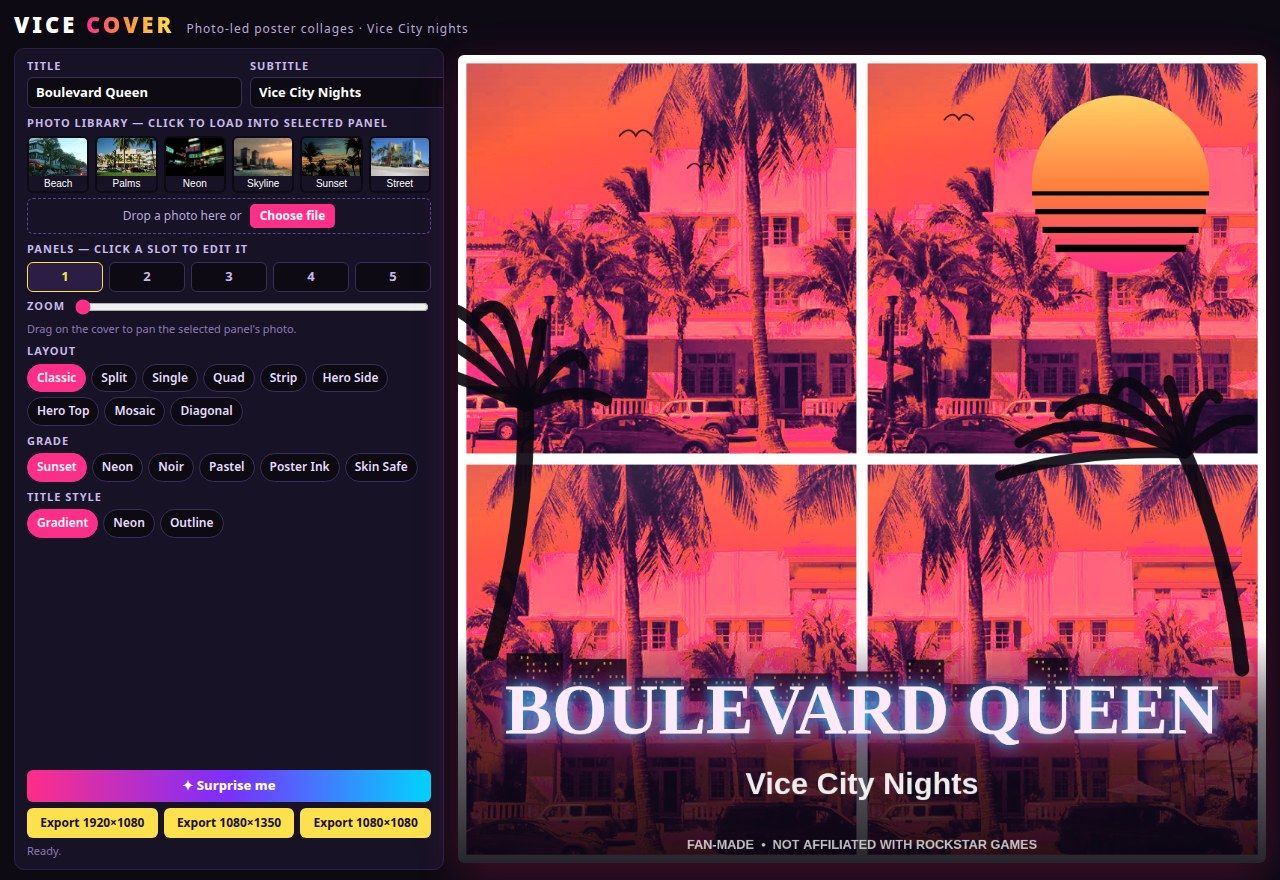
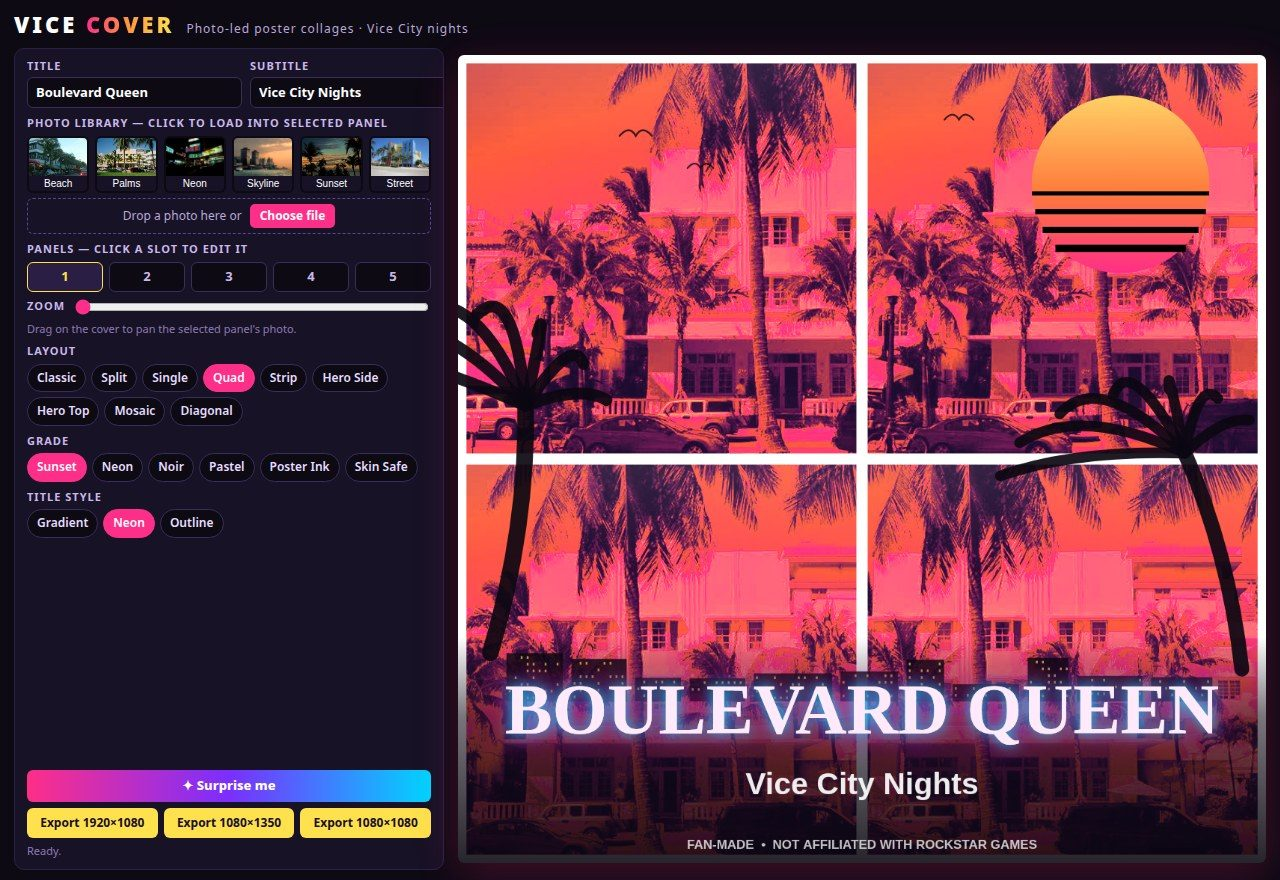
VICE COVER v3: mosaic tiles fully, picker buttons sync with state

Changed region(s): [[0.0, 0.5523, 0.125, 0.6136], [0.1562, 0.3989, 0.2188, 0.4602], [0.0, 0.3989, 0.0625, 0.4602]]

diff --git a/app/src/main.js b/app/src/main.js
@@ -39,6 +39,24 @@ const state = {
   ],
 };
 
+// Keep the layout / grade / title-style picker buttons in sync with state,
+// so any path that changes state (picker click, Surprise me, ?shot= apply)
+// is reflected in the highlighted buttons.
+function syncPickerButtons() {
+  const groups = [
+    ['layouts', 'layout', 'layout'],
+    ['grades', 'grade', 'grade'],
+    ['title-styles', 'titleStyle', 'titleStyle'],
+  ];
+  groups.forEach(([containerId, attr, key]) => {
+    const container = document.getElementById(containerId);
+    if (!container) return;
+    container.querySelectorAll('button').forEach((b) => {
+      b.classList.toggle('active', b.dataset[attr] === state[key]);
+    });
+  });
+}
+
 function redraw() {
   drawCover(canvas, state.photos, {
     layout: state.layout,
@@ -48,6 +66,7 @@ function redraw() {
     titleStyle: state.titleStyle,
     crops: state.crops,
   });
+  syncPickerButtons();
 }
 
 function setStatus(text) {
@@ -150,8 +169,7 @@ function wirePicker(containerId, attr, key) {
     if (btn.dataset[attr] === state[key]) btn.classList.add('active');
     btn.addEventListener('click', () => {
       state[key] = btn.dataset[attr];
-      container.querySelectorAll('button').forEach((b) => b.classList.remove('active'));
-      btn.classList.add('active');
+      syncPickerButtons();
       redraw();
     });
   });
@@ -217,10 +235,7 @@ document.getElementById('surprise').addEventListener('click', async () => {
     state.crops[i] = { x: 0.5, y: 0.5, zoom: 1 };
   }
   zoomSlider.value = '1';
-  // Sync picker active states.
-  document.querySelectorAll('#layouts button').forEach((b) => b.classList.toggle('active', b.dataset.layout === state.layout));
-  document.querySelectorAll('#grades button').forEach((b) => b.classList.toggle('active', b.dataset.grade === state.grade));
-  document.querySelectorAll('#title-styles button').forEach((b) => b.classList.toggle('active', b.dataset.titleStyle === state.titleStyle));
+  syncPickerButtons();
   redraw();
   setStatus(`Surprise: ${state.title} — ${state.layout} / ${state.grade} / ${state.titleStyle}`);
 });

diff --git a/app/src/cover.js b/app/src/cover.js
@@ -43,7 +43,7 @@ export const LAYOUTS = [
   { id: 'mosaic', name: 'Mosaic', panels: [
     { x: 0, y: 0, w: 0.3, h: 0.5 },
     { x: 0, y: 0.5, w: 0.3, h: 0.5 },
-    { x: 0.3, y: 0.2, w: 0.4, h: 0.6 },
+    { x: 0.3, y: 0, w: 0.4, h: 1 },
     { x: 0.7, y: 0, w: 0.3, h: 0.5 },
     { x: 0.7, y: 0.5, w: 0.3, h: 0.5 },
   ] },
